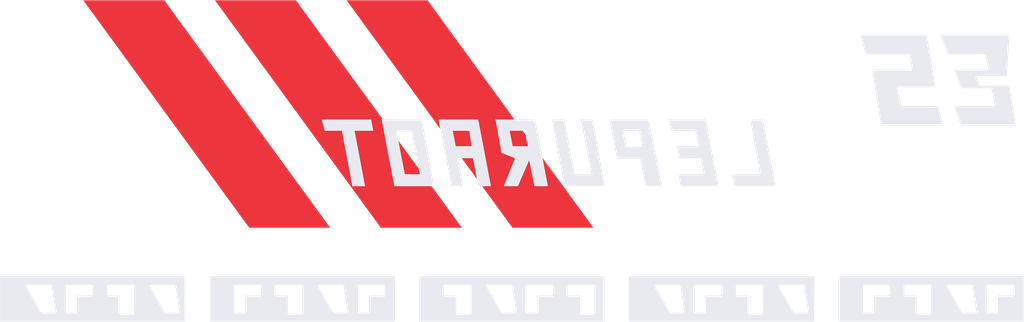
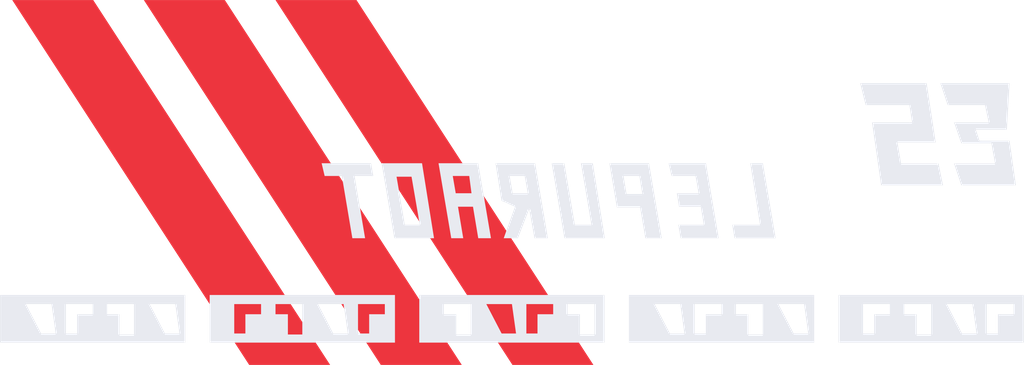
Overlay sponsors on full-height racing stripes and add sponsor frame

Changed region(s): [[0.0, 0.0, 0.5938, 1.0]]

diff --git a/README.md b/README.md
@@ -271,7 +271,7 @@ frame, plus the amber red-zone gauge, and checks the compositor on the GPU.
 Open **DECALS / GRAPHICS** in the garage. The editor uses fixed diffuse studio
 fill and softbox bar reflections instead of the orbiting point source.
 Switch **FRONT VIEW / REAR VIEW**, choose one of three decal layers, then browse
-24 vector-authored designs with the arrows or mouse wheel over the preview.
+25 vector-authored designs with the arrows or mouse wheel over the preview.
 Drag on the car or use arrow keys/buttons to move the decal on its side plane;
 adjust size, angle and single-ink colour. Racing designs retain their colours.
 REMOVE clears the selected layer, RESET restores its transform, DONE / SAVE
@@ -289,3 +289,6 @@ No bonnet/roof placement or arbitrary surface wrapping is implemented.
 maps, save/reload and captures front/rear editor and driving frames. Add
 `--civic` for the EK9. Compile/run `tests/decal_tests.cpp` with the same standalone
 compiler flags as the other unit checks to verify cross-view projection maths.
+
+**Sponsor Overlay** is a transparent frame of sponsor blocks with a clear centre.
+Choose it on layer 2 or 3 over another graphic; layers draw in order 1, 2, 3.

diff --git a/assets/decals/README.md b/assets/decals/README.md
@@ -1,6 +1,6 @@
 # Runtime decals
 
-24 vector-authored decal sets exported from reviewed experiment studies. Dragon
+25 vector-authored decal sets exported from reviewed experiment studies. Dragon
 designs were rejected and are excluded. PNGs are transparent, cropped to ink
 bounds and reduced to at most 1024 x 512 for native 128px car compositing.
 Original vector drawings and full-resolution review sheets remain in the
@@ -19,3 +19,11 @@ vertical left edge and filled hexagons that thin out toward the right.
 Red Slash Racing, Orange Endurance, Heritage Tricolour and Touring Sunset are
 authored mirrored for right-side placement. Mint Club Racer remains unchanged.
 Stable catalogue IDs preserve existing saved selections and transforms.
+
+## Racing layouts and sponsor overlay
+
+Directional racing stripes run from the top to the bottom of the decal bounds.
+Sponsor blocks are drawn last over the stripes, rather than in a separate strip.
+Honeycomb Fade retains its straight solid left edge and a diagonal fade at right.
+`20_sponsor_overlay` is a single-ink perimeter of bold sponsor blocks with an
+open centre. Apply it on layer 2 or 3 above another design; layer 3 is topmost.
